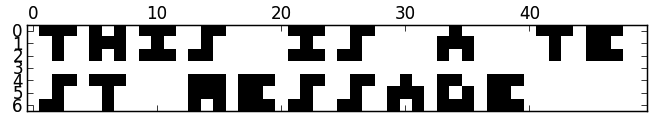
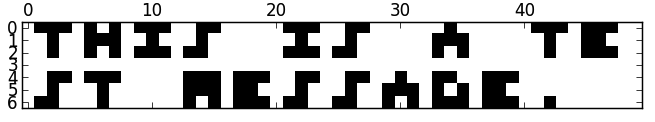
adding period to test message

diff --git a/README.md b/README.md
@@ -27,7 +27,7 @@ Example
 Entering the following at the command line will generate a preview, as shown
 below, in matplotlib.
 
-    python3 preview.py this is a test message
+    python3 preview.py This is a test message.
 
 ![matplotlib image](https://raw.github.com/zarthur/github-messages/master/images/test_message.png)
 
